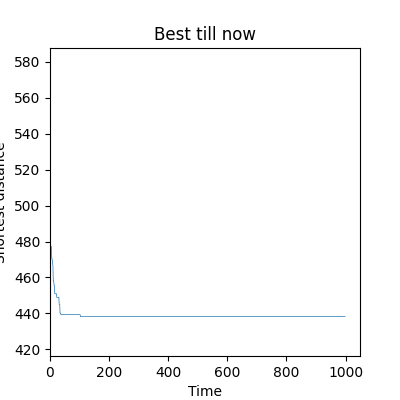
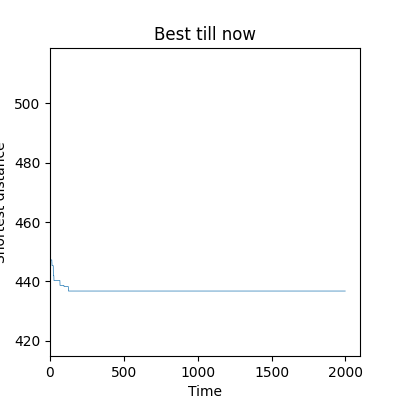
best 436

diff --git a/run.py b/run.py
@@ -1,34 +1,38 @@
 from tsp_graph import TSPGraph
 
-with open("./tsp/eil51.tsp", "r") as f:
-    lines = f.readlines()
+try:
+    with open("./tsp/eil51.tsp", "r") as f:
+        lines = f.readlines()
 
-nodes = 0
-positions = {}
+    nodes = 0
+    positions = {}
 
-for i in lines[6:-1]:
-    id, x, y = list(map(float, i.split()))
-    positions[int(id - 1)] = [x, y]
-    nodes += 1
+    for i in lines[6:-1]:
+        id, x, y = list(map(float, i.split()))
+        positions[int(id - 1)] = [x, y]
+        nodes += 1
 
-g = TSPGraph(2, 2)  # generate random
-g.parse_file(nodes, positions)  # parse actual
+    g = TSPGraph(2, 2)  # generate random
+    g.parse_file(nodes, positions)  # parse actual
 
-best_distance = float("inf")
-best_route = []
-for i in range(1000):
-    g.run()
-    if g.best_distance < best_distance:
-        best_distance = g.best_distance
-        best_route = g.best_route
+    best_distance = float("inf")
+    best_route = []
+    for i in range(2000):
+        g.run()
+        if g.best_distance < best_distance:
+            best_distance = g.best_distance
+            best_route = g.best_route
 
-        print(f"New best found at episode {i}: {best_distance}")
-    print(f"episode {i}: {g.best_distance}")
-    g.reset()
+            print(f"New best found at episode {i}: {best_distance}")
+        print(f"episode {i}: {g.best_distance}")
+        g.reset()
 
-print(f"Final: {best_distance}")
-print(best_route)
-g.shortest_plot()
-g.progress_plot()  # progress still has variance. Learning or not?
-g.best_plot()
-g.draw_graph()
+    print(f"Final: {best_distance}")
+    print(best_route)
+    g.shortest_plot()
+    g.progress_plot()  # progress still has variance. Learning or not?
+    g.best_plot()
+    g.draw_graph()
+
+except KeyboardInterrupt:
+    print("\nAborted")

diff --git a/tsp_graph.py b/tsp_graph.py
@@ -127,6 +127,7 @@ class TSPGraph:
             arrowstyle="-",
             with_labels=False,
             ax=ax,
+            width=0.3
         )
 
         fig.savefig('eil51_graph.png')
@@ -155,6 +156,7 @@ class TSPGraph:
             arrowstyle="-",
             with_labels=False,
             ax=ax,
+            # width=[self.graph[u][v]['pheromone'] for u, v in temp_graph.edges]
         )
         fig.savefig('eil51_shortest.png')
         plt.close(fig)
@@ -167,9 +169,16 @@ class TSPGraph:
     def update_global_pheromone(self, rho=0.1):
         delta_tau = {edge: 0 for edge in self.graph.edges}
 
+        # Update pheromone on only best path
         for i in range(len(self.best_route) - 1):
             u, v = self.best_route[i], self.best_route[i + 1]
             delta_tau[(u, v)] += 1 / self.best_distance
+
+        # Update pheromone of all paths covered by ants
+        # for ant in self.ants:
+        #     for i in range(len(ant.visited) - 1):
+        #         u, v = ant.visited[i], ant.visited[i + 1]
+        #         delta_tau[(u, v)] += 1 / ant.distance
 
         for u, v in self.graph.edges:
             pheromone_uv = self.graph[u][v]["pheromone"]

diff --git a/tsp_ant.py b/tsp_ant.py
@@ -7,7 +7,7 @@ import random
 
 
 class TSPAnt:
-    def __init__(self, id, source, model, init_pheromone, q_0=0.9, alpha=1.0, beta=5.0) -> None:
+    def __init__(self, id, source, model, init_pheromone, q_0=0.8, alpha=1.0, beta=5.0) -> None:
         self.id = id
         self.source = source
         self.visited = [source]
